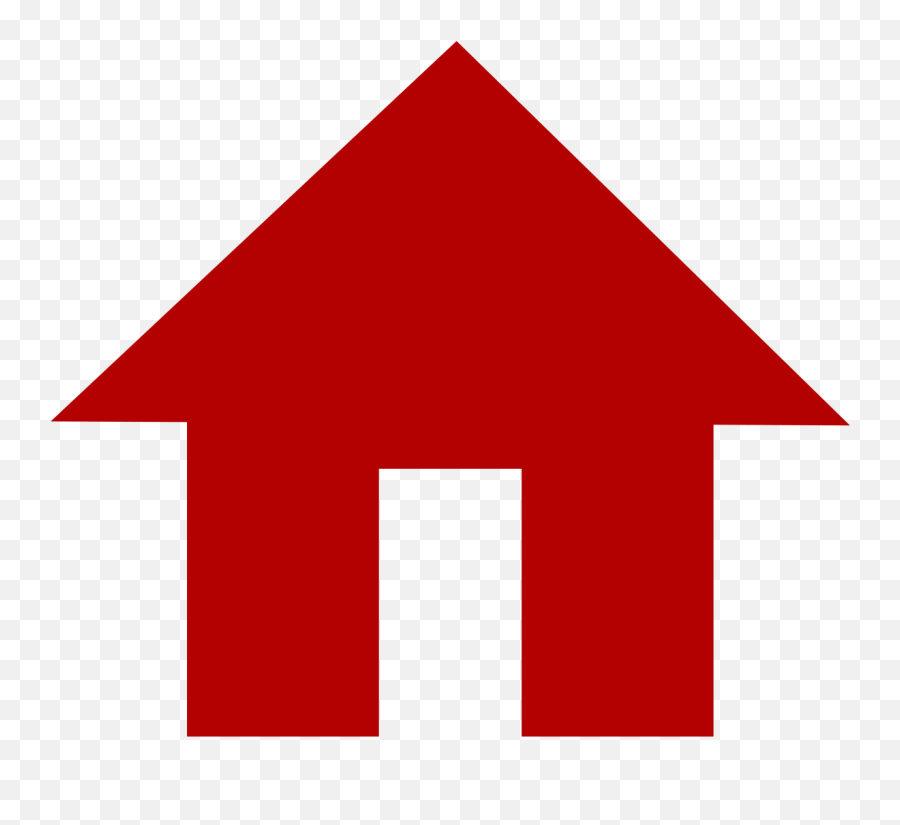
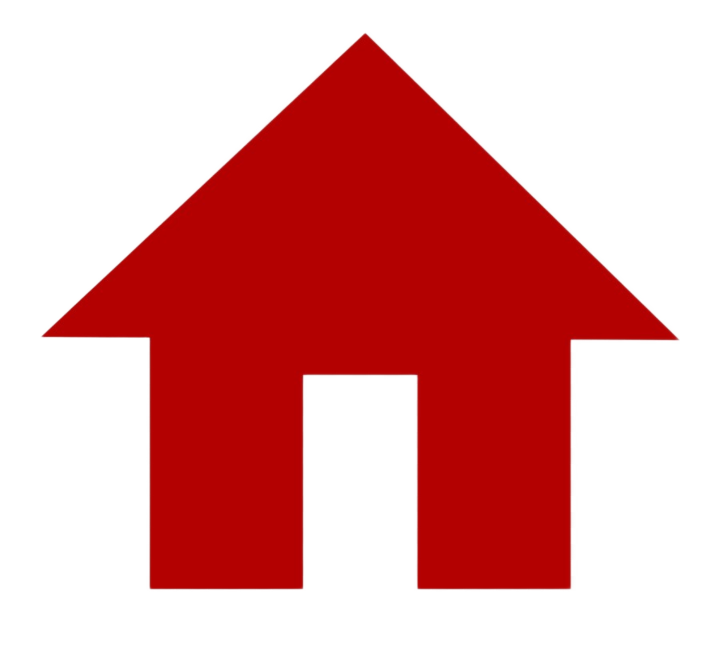
house

diff --git a/src/main/java/GUI2.java b/src/main/java/GUI2.java
@@ -605,9 +605,16 @@ public class GUI2 implements ActionListener , PlayerObserver {
                 int currentPlayerPosition = game.getCurrentPlayer().getPosition();
                 Point housePosition = new Point(boardPositions[currentPlayerPosition]);
 
-                ImageIcon houseIcon = new ImageIcon("house.png");
-                JLabel houseLabel = new JLabel(houseIcon);
-                houseLabel.setBounds(housePosition.x, housePosition.y, houseIcon.getIconWidth(), houseIcon.getIconHeight());
+                // Random adjustments for x and y position within 10 pixels
+                Random rand = new Random();
+                housePosition.translate(rand.nextInt(21) - 10, rand.nextInt(21) - 10);
+
+                ImageIcon originalHouseIcon = new ImageIcon("src/main/resources/house.png");
+                Image scaledHouseImage = originalHouseIcon.getImage().getScaledInstance(30, 30, Image.SCALE_SMOOTH);
+                ImageIcon scaledHouseIcon = new ImageIcon(scaledHouseImage);
+
+                JLabel houseLabel = new JLabel(scaledHouseIcon);
+                houseLabel.setBounds(housePosition.x, housePosition.y, 30, 30);
                 layeredPane.add(houseLabel, new Integer(8));
 
                 if (possibleHouses > 0) {
@@ -624,7 +631,6 @@ public class GUI2 implements ActionListener , PlayerObserver {
         });
     }
 
-
     public void setBuyHotelButton(Game game) {
         buyHotelButton = new JButton("Buy hotel");
         buyHotelButton.setBounds(440, 520 + MOVEUP, 120, 25);
@@ -637,17 +643,16 @@ public class GUI2 implements ActionListener , PlayerObserver {
                 Audio.playAudio("src/main/resources/buildHouse.wav");
 
                 game.getCurrentPlayer().buyHotel(game.getCurrentPlayer().getOnCity());
-                game.cleanProperty();
 
                 int currentPlayerPosition = game.getCurrentPlayer().getPosition();
                 Point housePosition = new Point(boardPositions[currentPlayerPosition]);
 
-                ImageIcon originalIcon = new ImageIcon("house.png");
-                Image scaledImage = originalIcon.getImage().getScaledInstance(originalIcon.getIconWidth() * 2, originalIcon.getIconHeight() * 2, Image.SCALE_SMOOTH);
+                ImageIcon originalIcon = new ImageIcon("src/main/resources/house.png");
+                Image scaledImage = originalIcon.getImage().getScaledInstance(60, 60, Image.SCALE_SMOOTH); // Scaling to 60x60
                 ImageIcon scaledIcon = new ImageIcon(scaledImage);
 
                 JLabel houseLabel = new JLabel(scaledIcon);
-                houseLabel.setBounds(housePosition.x, housePosition.y, scaledIcon.getIconWidth(), scaledIcon.getIconHeight());
+                houseLabel.setBounds(housePosition.x, housePosition.y, 60, 60);
                 layeredPane.add(houseLabel, new Integer(8));
 
                 layeredPane.remove(buyHotelButton);
@@ -655,7 +660,6 @@ public class GUI2 implements ActionListener , PlayerObserver {
             }
         });
     }
-
 
     public void setEndTurnButton(Game game) {
         endTurnButton = new JButton("End turn");
